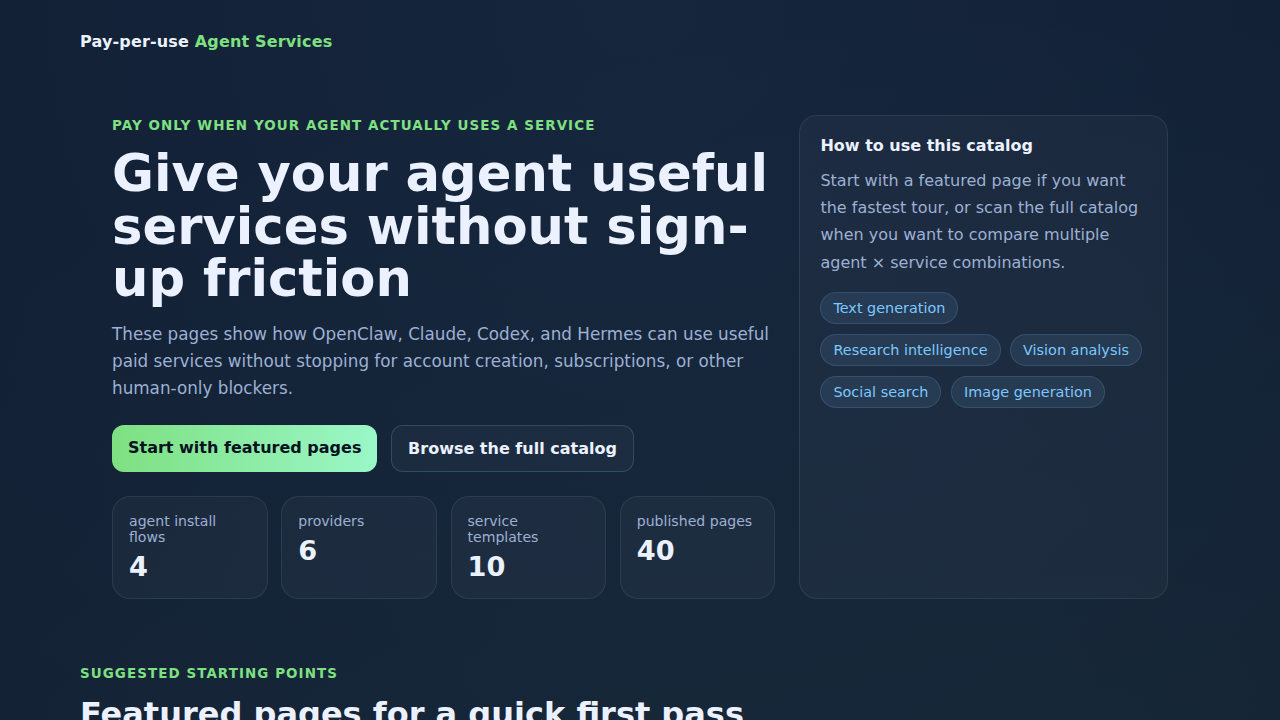
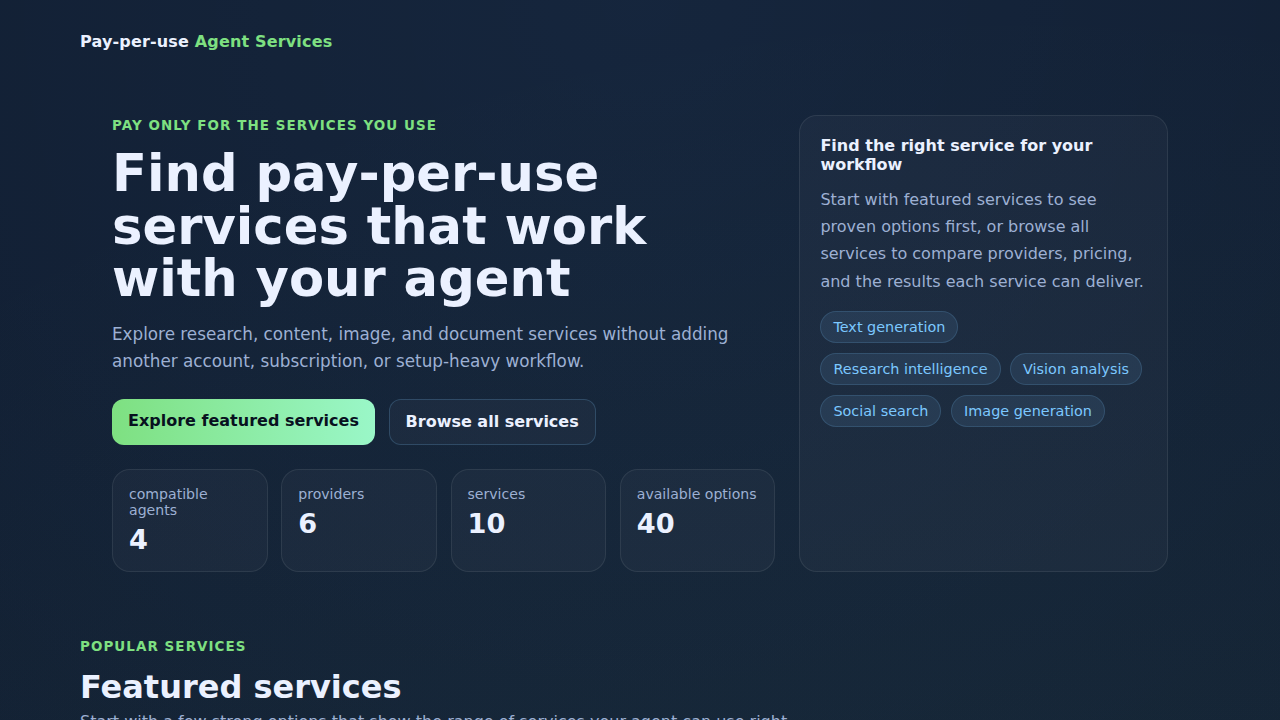
fix(copy): remove demo framing from homepage

diff --git a/README.md b/README.md
@@ -1,22 +1,34 @@
 # 402 Landing Pages
 
-A small Astro prototype for exploring result-oriented, agent-specific landing pages for useful 402 endpoints.
+A static Astro site for publishing user-facing landing pages for agent-usable 402 services.
 
-## What the app currently does
+## Site purpose
 
-- renders a static index page listing 4 landing page variants for the same endpoint
-- renders one page each for `OpenClaw`, `Claude`, `Codex`, and `Hermes`
-- uses a real example endpoint URL from PayPerQ for the mock content base:
-  - `https://api.ppq.ai/v1/images/generations/gpt-image-1.5`
+The site presents production-style landing pages for services that agents can use with pay-per-use 402 payments.
+Each landing page is an **agent × service** variant that explains:
+
+- what the service does
+- which provider powers it
+- how pricing works
+- when the service is useful
+- where a user should go next to install or express interest
+
+The homepage is intended to help end users discover useful services, compare options, and understand which workflows are already supported.
+
+## Current implementation
+
+- renders a static homepage with featured services and a broader directory of service pages
+- renders dedicated pages for `OpenClaw`, `Claude`, `Codex`, and `Hermes`
+- uses real provider/service records as the content base
 - keeps the site fully static so it can deploy to GitHub Pages with no database
-- includes repeated CTA modules pointing to a placeholder install page for the Alby Payments Skill
-- removes the earlier score-based mock sections in favor of result-oriented sections like example output, use cases, example prompt, and FAQ
+- includes install and coming-soon flows for different support states
+- uses public-facing sections such as example output, use cases, pricing, example prompts, and FAQ
 
-## Current landing page concept
+## Current service/page model
 
-Each page is an **agent × endpoint** variant.
+Each page is an **agent × service** variant.
 
-Current variants:
+Current examples include:
 
 - OpenClaw × PayPerQ GPT Image 1.5
 - Claude × PayPerQ GPT Image 1.5
@@ -25,14 +37,14 @@ Current variants:
 
 Each variant currently includes:
 
-- title and description focused on what the agent can achieve
-- explicit no-sign-up / no-subscription messaging
-- example output block with mock cost paid
+- a title and description focused on the user outcome
+- explicit no-sign-up / no-subscription messaging where accurate
+- example output blocks
 - use case cards
-- explanation of why 402 payments fit the agent workflow
-- example prompt block
-- Alby-oriented FAQ
-- CTA linking to `/install/`
+- explanation of why 402 payments fit the workflow
+- example prompt blocks where appropriate
+- FAQ content
+- CTA routing to `/install/` or `/coming-soon/` based on support state
 
 ## Local development
 
@@ -91,22 +103,20 @@ Expected production URL:
 └── README.md
 ```
 
-## Workflow notes and planning
+## Internal workflow notes
 
-- `docs/provider-intake-and-activation.md` — manual provider-intake workflow, provider and service registry direction, Sats4AI evaluation notes, wallet setup notes, live paid-test summary, and registry implementation notes
+- `docs/provider-intake-and-activation.md` — provider-intake workflow, provider and service registry direction, Sats4AI evaluation notes, wallet setup notes, live paid-test summary, and registry implementation notes
 - `docs/provider-tests/sats4ai-translate-text-2026-04-19.md` — first successful end-to-end paid endpoint test record for Sats4AI translation
 
 ## What still needs to be done
 
-In my opinion, the next useful steps are:
-
-1. replace the mock output image and mock payment amount with real captured example outputs once the payment flow is tested
-2. decide the final CTA destination and install UX for Bitcoin-compatible 402 services
+1. replace remaining mock output images and placeholder payment amounts with real captured example outputs where available
+2. finalize the CTA destination and install UX for supported services
 3. improve SEO metadata per variant, including canonical strategy, Open Graph images, and structured data
 4. keep provider and service registry entries fresh with real last-checked dates as more endpoints are reviewed
-5. add automation that can generate N agent-specific pages from one approved provider/service record
+5. add automation that can generate more agent-specific pages from approved provider/service records
 6. add checks for thin or duplicate copy as the number of agents, providers, and services grows
 
 ## Why Astro here
 
-Astro is a good fit for this experiment because the site is fully static, content-oriented, and simple to deploy to GitHub Pages.
+Astro is a good fit because the site is fully static, content-oriented, and simple to deploy to GitHub Pages.
